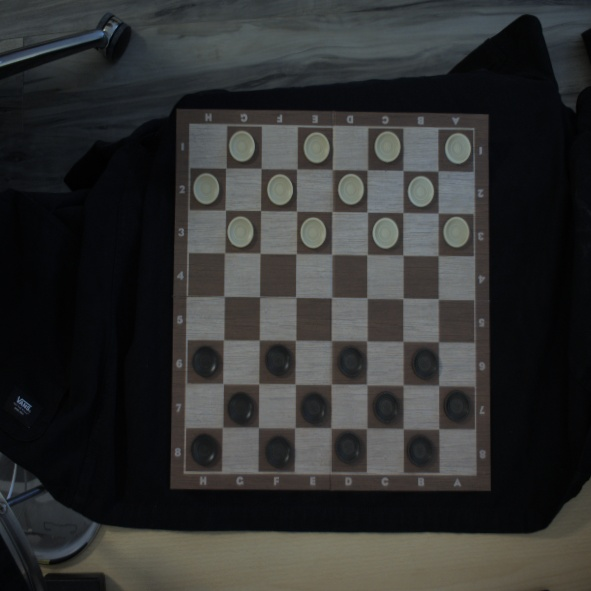
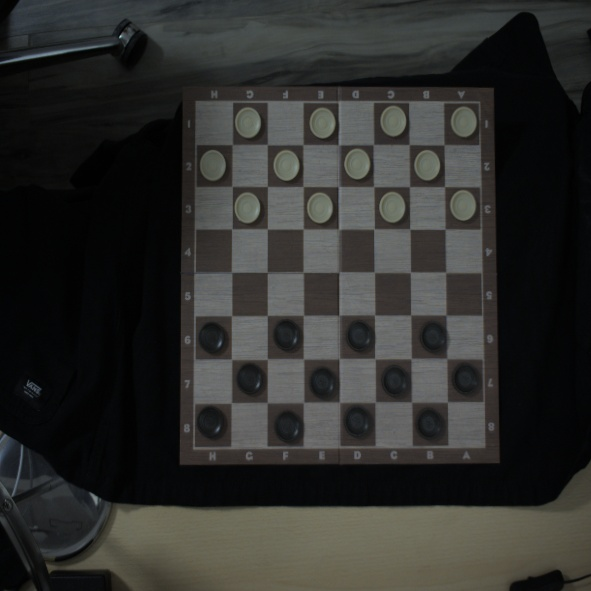
show possible moves

diff --git a/board_detection.py b/board_detection.py
@@ -3,29 +3,37 @@ import numpy as np
 import tkinter as tk
 from PIL import Image, ImageTk
 
-def get_number_of_triming(undistort_image):
-    number_of_triming = 0
-    trimmed_image = None
+
+
+def nothing(x):
+    pass
+
+def get_trim_param(undistort_image):
+    trimmed_image = undistort_image
+    bounderies = []
     while 1:
-        if(trimmed_image is None):
-            image_for_trim = undistort_image
-        else:
-            image_for_trim = trimmed_image
-        trimmed_image = trim_chessboard(image_for_trim)
+        bounderies.append(get_bounderies(trimmed_image)) 
+        
+        # Get the bounding rectangle for the largest contour
+        x, y, w, h = cv2.boundingRect(bounderies[-1])
+
+        # Crop the image using the bounding rectangle
+        trimmed_image = trimmed_image[y:y+h, x:x+w]
+
         cv2.imshow("trimming", trimmed_image)
+
         key = cv2.waitKey(0)
         if key == 27:
-            number_of_triming += 1
             cv2.destroyWindow("trimming")
             break
-        else:
-            number_of_triming += 1
 
-    return number_of_triming
+
+    
+    return bounderies
             
-def trim_chessboard(image):  # Remove argument here
+def get_bounderies(image):  # Remove argument here
     # Convert the image to grayscale
-    gray = cv2.cvtColor(image, cv2.COLOR_RGB2GRAY)
+    gray = cv2.cvtColor(image, cv2.COLOR_BGR2GRAY)
     blur = cv2.GaussianBlur(gray, (5,5), 0)
 
     # Threshold the image to separate the black frame
@@ -37,20 +45,14 @@ def trim_chessboard(image):  # Remove argument here
     # Sort the contours by area and keep the largest one
     contours = sorted(contours, key=cv2.contourArea, reverse=True)
 
-    # Get the bounding rectangle for the largest contour
-    x, y, w, h = cv2.boundingRect(contours[0])
-
-    # Crop the image using the bounding rectangle
-    cropped_image = image[y:y+h, x:x+w]
-
-    return cropped_image
+    return contours[0]
 
 
 def color_white_stones(image):
     gray = cv2.cvtColor(image, cv2.COLOR_BGR2GRAY)
     blurred = cv2.GaussianBlur(gray, (5,5), 0)
 
-    canny = cv2.Canny(blurred, 200, 1, 1)
+    canny = cv2.Canny(blurred, 223, 1, 1)
 
     kernel = np.ones((2,2),np.uint8)
     dilate = cv2.dilate(canny,kernel,iterations = 1)
@@ -60,6 +62,229 @@ def color_white_stones(image):
 
     img_copy = image.copy()
     for c in contours:
-        cv2.drawContours(img_copy, [c], -1, (50, 50, 50), -1)
+        cv2.drawContours(img_copy, [c], -1, (40, 40, 40), -1)
 
     return img_copy
+
+def highlight_black_rectangles(image):
+    gray = cv2.cvtColor(image, cv2.COLOR_BGR2GRAY)
+    blur = cv2.GaussianBlur(gray, (5,5), 0)
+    thresh = cv2.threshold(blur, 0, 255, cv2.THRESH_BINARY + cv2.THRESH_OTSU)[1]
+
+    # Closing
+    kernel = np.ones((39,31),np.uint8)
+    closing = cv2.morphologyEx(thresh, cv2.MORPH_CLOSE, kernel)
+
+    # Dilate
+    kernel = np.ones((10,10),np.uint8)
+    dilate = cv2.dilate(closing,kernel,iterations = 1)
+
+    cv2.imshow("dilate", dilate)
+    imagem = cv2.bitwise_not(dilate)
+
+    canny = cv2.Canny(imagem, 120, 255, 1)
+
+    # Dilate
+    kernel = np.ones((2,2),np.uint8)
+    dilate = cv2.dilate(canny,kernel,iterations = 1)
+
+    
+
+    contours = cv2.findContours(dilate, cv2.RETR_TREE, cv2.CHAIN_APPROX_SIMPLE)
+    contours = contours[0] if len(contours) == 2 else contours[1]
+
+    result = image.copy()
+    for c in contours:
+        cv2.drawContours(result, [c], -1, (0, 0, 255), 2)
+    
+    return result
+
+def get_contours_off_all_rectangles(image):
+    # Convert the image to grayscale
+    gray = cv2.cvtColor(image, cv2.COLOR_RGB2GRAY)
+
+    # Apply edge detection
+    edges = cv2.Canny(gray, 50, 150, apertureSize=3)
+
+    attempts = 1
+    param1 = 255
+    while 1:
+        if(param1 < 1):
+            attempts += 1
+            if(attempts > 4):
+                break
+            
+        blur_copy = np.copy(edges)
+
+        param1 -= 1
+
+        # Detect lines using the Hough Line Transform
+        lines = cv2.HoughLines(edges, 1, np.pi / 180, param1)
+
+        # Create a copy of the original image to draw lines on
+        black_image = image.copy()
+        black_image = np.zeros_like(black_image)
+
+        # Draw the lines on the image
+        if lines is not None:
+            for rho, theta in lines[:, 0]:
+                a = np.cos(theta)
+                b = np.sin(theta)
+                x0 = a * rho
+                y0 = b * rho
+                x1 = int(x0 + 1000 * (-b))
+                y1 = int(y0 + 1000 * a)
+                x2 = int(x0 - 1000 * (-b))
+                y2 = int(y0 - 1000 * a)
+
+                cv2.line(black_image, (x1, y1), (x2, y2), (255, 255, 255), 2)
+
+
+        canny = cv2.Canny(black_image, 120, 255, 1)
+
+        gray = cv2.cvtColor(black_image, cv2.COLOR_RGB2GRAY)
+
+        # Find contours
+        contours, _ = cv2.findContours(gray, cv2.RETR_TREE, cv2.CHAIN_APPROX_SIMPLE)
+
+        # Filter for rectangles
+        rectangles = []
+        for cnt in contours:
+            # Get convex hull
+            hull = cv2.convexHull(cnt)
+            
+            # Get approximate polygon
+            epsilon = 0.02 * cv2.arcLength(hull, True)
+            approx = cv2.approxPolyDP(hull, epsilon, True)
+            
+            # Check if it is a rectangle
+            if len(approx) == 4:
+                rectangles.append(approx)
+
+
+        # Sort the contours by area and keep the largest one
+        contours = sorted(contours, key=cv2.contourArea, reverse=True)
+
+        new_image = image.copy()
+        if(len(contours) >= 64 and len(contours) <= 150):
+            correct_result = 0
+            new_contours = []
+            for position in range(1, len(contours)):
+                new_contours.append(contours[position])
+                x,y,w,h = cv2.boundingRect(contours[position])
+            
+                if(w > 20 and h > 20 and correct_result < 64):
+                    correct_result += 1
+                    print(x, y, w, h)
+                    cv2.rectangle(new_image, (x, y), (x + w, y + h), (36,255,12), 1)
+            # cv2.drawContours(result, [contours[position]], -1, (0, 0, 255), 2)
+
+            cv2.imshow('new_image', new_image)
+            if(correct_result == 64):
+                break
+
+    return new_contours
+
+occupancy_canny_param1 = 70
+occupancy_canny_param2 = 1
+
+def get_occupancy(image, createTrackBars):
+    gray = cv2.cvtColor(image, cv2.COLOR_BGR2GRAY)
+    # Blur
+    blur = cv2.GaussianBlur(gray, (5,5), 0)
+    cv2.imshow('Occupancy_canny', blur)
+
+    if(createTrackBars):
+        # create trackbars for color change
+        cv2.createTrackbar('param1','Occupancy_canny',72,100,nothing)
+        cv2.setTrackbarMin('param1','Occupancy_canny', 1)
+        cv2.createTrackbar('param2','Occupancy_canny',48,200,nothing)
+        cv2.setTrackbarMin('param2','Occupancy_canny', 1)
+
+    # get current positions of four trackbars
+    occupancy_canny_param1 = cv2.getTrackbarPos('param1','Occupancy_canny')
+    occupancy_canny_param2 = cv2.getTrackbarPos('param2','Occupancy_canny')
+
+    # Canny
+    edges = cv2.Canny(blur,occupancy_canny_param1,occupancy_canny_param2,apertureSize=3)
+    cv2.imshow("Occupancy_canny", edges)
+
+    imagem = cv2.bitwise_not(edges)
+
+    # Closing
+    kernel = np.ones((30,30),np.uint8)
+    closing = cv2.morphologyEx(imagem, cv2.MORPH_OPEN, kernel)
+
+    contours = cv2.findContours(closing, cv2.RETR_TREE, cv2.CHAIN_APPROX_SIMPLE)
+    contours = contours[0] if len(contours) == 2 else contours[1]
+
+    result = image.copy()
+    for c in contours:
+        area = cv2.contourArea(c)
+        cv2.drawContours(result, [c], -1, (0, 255, 0), 1)
+
+    cv2.imshow('result', result)
+    return contours
+
+def get_possible_moves(all_rectangles, occupancy_rectagles, image):
+    possible_moves = []
+    possible_move_was_found = False
+    for position in range(len(all_rectangles)):
+
+        isRectangleBlack = is_rectangle_black(image, all_rectangles[position])
+
+        if(isRectangleBlack):
+            for occupancy_rectagle in occupancy_rectagles:
+                x, y, w, h = cv2.boundingRect(occupancy_rectagle)
+                point_x = get_center_of_rectangle(x, w)
+                point_y = get_center_of_rectangle(y, h)
+
+                isPointInRectangle = is_point_in_rectangle(all_rectangles[position], point_x, point_y)
+            
+                if(isPointInRectangle):
+                    possible_move_was_found = True
+                    break
+        
+        if(possible_move_was_found and isRectangleBlack):
+            possible_moves.append(all_rectangles[position])
+            x, y, w, h = cv2.boundingRect(all_rectangles[position])
+            point_x = get_center_of_rectangle(x, w)
+            point_y = get_center_of_rectangle(y, h)
+            image = cv2.circle(image, (int(point_x), int(point_y)), radius=4, color=(0, 0, 255), thickness=-1)
+            image = cv2.drawContours(image, [all_rectangles[position]], -1, (0, 255, 0), 1)
+        else:
+            possible_moves.append(None)
+
+        cv2.imshow('possible_moves', image)
+        possible_move_was_found = False
+
+def is_point_in_rectangle(rectangle, point_x, point_y):
+    rectangle_top_left_x, rectangle_top_left_y, width, height = cv2.boundingRect(rectangle)
+    rectangle_bottom_right_x = rectangle_top_left_x + width
+    rectangle_bottom_right_y = rectangle_top_left_y + height
+
+    if rectangle_top_left_x <= point_x <= rectangle_bottom_right_x and rectangle_top_left_y <= point_y <= rectangle_bottom_right_y:
+        return True
+    else:
+        return False
+    
+def get_center_of_rectangle(point, lenght):
+    return point + (lenght / 2)
+
+def is_rectangle_black(img, rectangle, threshold=127):
+    gray = cv2.cvtColor(img, cv2.COLOR_BGR2GRAY)
+    blur = cv2.GaussianBlur(gray, (5,5), 0)
+    thresh = cv2.threshold(blur, 0, 255, cv2.THRESH_BINARY + cv2.THRESH_OTSU)[1]
+
+    top_left_x, top_left_y, width, height = cv2.boundingRect(rectangle)
+    # Slice the rectangle from the image
+    rectangle = thresh[top_left_y:top_left_y+height, top_left_x:top_left_x+width]
+    
+    # Calculate the mean value in the rectangle
+    mean_value = np.mean(rectangle)
+
+    # Compare the mean value to the threshold
+    if mean_value < threshold:
+        return True
+    else:
+        return False

diff --git a/main.py b/main.py
@@ -1,10 +1,12 @@
 from logging import root
+import threading
 import tkinter
 import cv2
 from ximea import xiapi
 import numpy as np
 import ximea_camera
 import board_detection
+import concurrent.futures
 
 
 def main():
@@ -12,7 +14,10 @@ def main():
     cam = ximea_camera.get_camera()  # call your function with module name prefix
     img = xiapi.Image()
     
-    number_of_triming = 0
+    bounderies = None
+    createTrackBars = True
+
+    init = True
     while 1:
         key = cv2.waitKey(1) & 0xFF
         if key == 27:
@@ -31,22 +36,33 @@ def main():
              cv2.imwrite("trimmed_image.jpg", trimmed_image)
 
     
-        if(number_of_triming == 0):
-            number_of_triming = board_detection.get_number_of_triming(undistort_image)
+        if(bounderies is None):
+            bounderies = board_detection.get_trim_param(undistort_image)
 
-        trimmed_image = None
-        for trim in range(number_of_triming):
-            if(trimmed_image is None):
-                image_for_trim = undistort_image
-            else:
-                image_for_trim = trimmed_image
-            trimmed_image = board_detection.trim_chessboard(image_for_trim)
+        trimmed_image = undistort_image.copy()
+        for boundery in bounderies:
+            # Get the bounding rectangle for the largest contour
+            x, y, w, h = cv2.boundingRect(boundery)
+
+            # Crop the image using the bounding rectangle
+            trimmed_image = trimmed_image[y:y+h, x:x+w]
+        
         cv2.imshow("trimmed_image", trimmed_image)
+        
+        if(init):
+            all_contours = board_detection.get_contours_off_all_rectangles(trimmed_image)
+            
+            init = False
+            
+        occupancy_contours = board_detection.get_occupancy(trimmed_image, createTrackBars)
 
-        image_without_white_stones = board_detection.color_white_stones(trimmed_image)
-        cv2.imshow("image_without_white_stones", image_without_white_stones)
+        board_detection.get_possible_moves(all_contours, occupancy_contours, trimmed_image)
+        # image_without_white_stones = board_detection.color_white_stones(trimmed_image)
+        # cv2.imshow("image_without_white_stones", image_without_white_stones)
 
-
+        # highlighted_black_rectangles = board_detection.highlight_black_rectangles(image_without_white_stones)
+        # cv2.imshow("highlighted_black_rectangles", highlighted_black_rectangles)
+        createTrackBars = False
 
 
     # stop data acquisition

diff --git a/ximea_camera.py b/ximea_camera.py
@@ -29,7 +29,7 @@ def get_camera():
     cam.open_device()
 
     # settings
-    cam.set_exposure(85000)
+    cam.set_exposure(155000)
     cam.set_param('imgdataformat', "XI_RGB32")
     cam.set_param("auto_wb", 1)
     print('Exposure was set to %i us' % cam.get_exposure())
